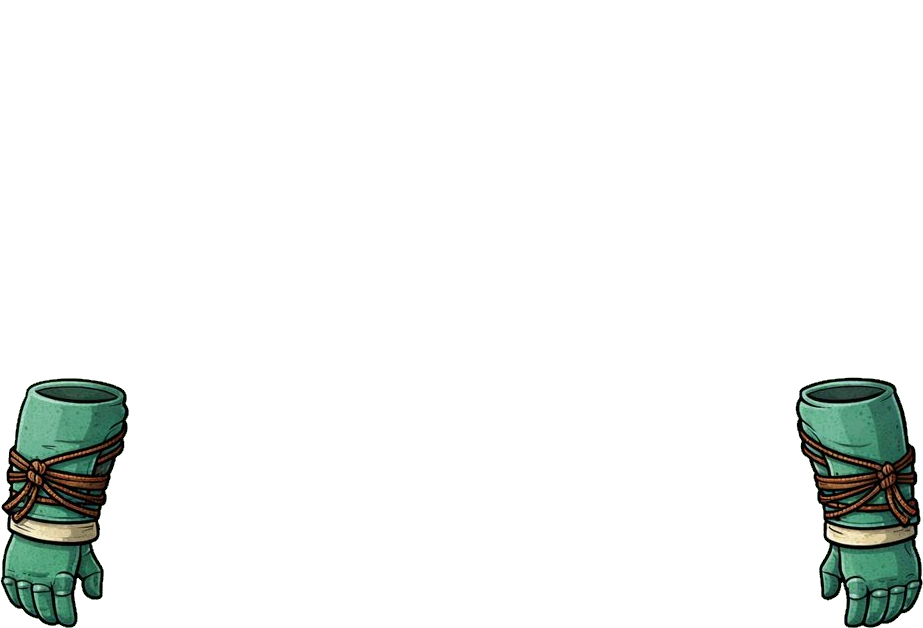
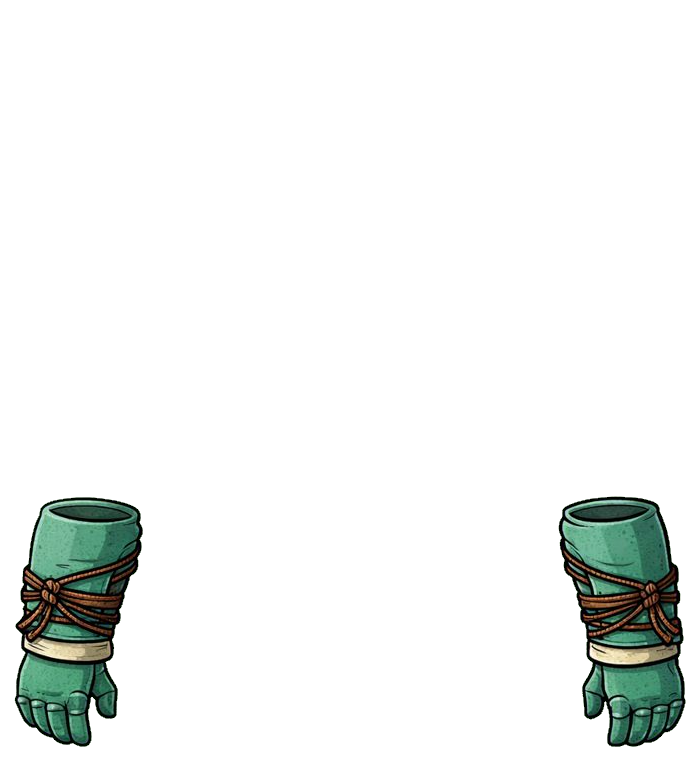
added final item pictures, fitted position and scale for pictures

Changed region(s): [[0.78, 0.5748, 1.0, 1.0], [0.0, 0.6051, 0.21, 1.0]]

diff --git a/src/main/resources/de/hsmittweida/pawnstopower/style_inspector.css b/src/main/resources/de/hsmittweida/pawnstopower/style_inspector.css
@@ -56,18 +56,22 @@
 
 }
 
+#slot-button:hover {
+    -fx-opacity: 0.2;
+    -fx-background-color: rgba(255, 0, 0, 0.0);
+    -fx-border-style: solid;
+    -fx-border-color: red;
+    -fx-border-width: 2;
+    -fx-text-fill: black;
+}
+
 /*#torso-pane {
     -fx-border-style: solid;
     -fx-border-color: red;
     -fx-border-width: 2;
 }*/
 
-/* #slot-button:hover {
-    -fx-opacity: 0.2;
-    -fx-background-color: rgba(255, 0, 0, 0.0);
-    -fx-border-style: none;
-    -fx-text-fill: black;
-} */
+
 
 #stats-box {
     -fx-background-color: rgba(26,26,26,0.7);

diff --git a/src/main/java/de/hsmittweida/pawnstopower/Inspector.java b/src/main/java/de/hsmittweida/pawnstopower/Inspector.java
@@ -97,17 +97,17 @@ public class Inspector {
         AnchorPane.setLeftAnchor(btnHead, 710.0);
         AnchorPane.setRightAnchor(btnHead, 710.0);
         AnchorPane.setTopAnchor(btnHead, 190.0);
-        headPane.setPrefWidth(70);
+        headPane.setPrefWidth(90);
         headPane.setPrefHeight(90);
-        headPane.setMaxWidth(70);
+        headPane.setMaxWidth(90);
         headPane.setMaxHeight(90);
-        headPane.setMinWidth(70);
+        headPane.setMinWidth(90);
         headPane.setMinHeight(90);
-        btnHead.setPrefWidth(70);
+        btnHead.setPrefWidth(90);
         btnHead.setPrefHeight(90);
-        btnHead.setMaxWidth(70);
+        btnHead.setMaxWidth(90);
         btnHead.setMaxHeight(90);
-        btnHead.setMinWidth(70);
+        btnHead.setMinWidth(90);
         btnHead.setMinHeight(90);
         btnHead.setOnAction(e -> new Slot(headPane, p, "clothing", 0, "Kopfschutz"));
 
@@ -140,10 +140,10 @@ public class Inspector {
         armPane = new StackPane();
         AnchorPane.setLeftAnchor(armPane, 655.0);
         AnchorPane.setRightAnchor(armPane, 655.0);
-        AnchorPane.setTopAnchor(armPane, 300.0);
+        AnchorPane.setTopAnchor(armPane, 310.0);
         AnchorPane.setLeftAnchor(btnArms, 655.0);
         AnchorPane.setRightAnchor(btnArms, 655.0);
-        AnchorPane.setTopAnchor(btnArms, 300.0);
+        AnchorPane.setTopAnchor(btnArms, 310.0);
         armPane.setPrefHeight(250);
         armPane.setPrefWidth(150);
         armPane.setMaxHeight(250);
@@ -184,34 +184,42 @@ public class Inspector {
 
         /* Slot 0 - siehe Pawn.weaponSlotUsed */
         paneRight = new StackPane();
-        AnchorPane.setRightAnchor(paneRight, 415.0);
-        AnchorPane.setTopAnchor(paneRight, 375.0);
-        paneRight.setPrefWidth(200);
-        paneRight.setPrefHeight(200);
+        AnchorPane.setRightAnchor(paneRight, 456.0);
+        AnchorPane.setTopAnchor(paneRight, 370.0);
+        paneRight.setPrefWidth(175);
+        paneRight.setPrefHeight(175);
+        paneRight.setMaxWidth(175);
+        paneRight.setMaxHeight(175);
+        paneRight.setMinWidth(175);
+        paneRight.setMinHeight(175);
         if(p.getWeapon((byte)0) != null) {
             System.out.println("weapon in rigght hand");
             setImage(paneRight, p.getWeapon((byte)0).getWeaponClass());
         }
-        AnchorPane.setRightAnchor(btnRight, 415.0);
-        AnchorPane.setTopAnchor(btnRight, 375.0);
-        btnRight.setPrefWidth(200);
-        btnRight.setPrefHeight(200);
+        AnchorPane.setRightAnchor(btnRight, 456.0);
+        AnchorPane.setTopAnchor(btnRight, 370.0);
+        btnRight.setPrefWidth(175);
+        btnRight.setPrefHeight(175);
         btnRight.setOnAction(e -> new Slot(paneRight, p, "weapon", 0, "Rechte Handwaffe"));
 
         /* Slot 1 */
         paneLeft = new StackPane();
-        AnchorPane.setLeftAnchor(paneLeft, 415.0);
-        AnchorPane.setTopAnchor(paneLeft, 375.0);
-        paneLeft.setPrefWidth(200);
-        paneLeft.setPrefHeight(200);
+        AnchorPane.setLeftAnchor(paneLeft, 456.0);
+        AnchorPane.setTopAnchor(paneLeft, 370.0);
+        paneLeft.setPrefWidth(175);
+        paneLeft.setPrefHeight(175);
+        paneLeft.setMaxWidth(175);
+        paneLeft.setMaxHeight(175);
+        paneLeft.setMinWidth(175);
+        paneLeft.setMinHeight(175);
         if(p.getWeapon((byte)1) != null) {
             System.out.println("weapon in left thand");
             setImage(paneLeft, p.getWeapon((byte)1).getWeaponClass());
         }
-        AnchorPane.setLeftAnchor(btnLeft, 415.0);
-        AnchorPane.setTopAnchor(btnLeft, 375.0);
-        btnLeft.setPrefWidth(200);
-        btnLeft.setPrefHeight(200);
+        AnchorPane.setLeftAnchor(btnLeft, 456.0);
+        AnchorPane.setTopAnchor(btnLeft, 370.0);
+        btnLeft.setPrefWidth(175);
+        btnLeft.setPrefHeight(175);
         btnLeft.setOnAction(e -> new Slot(paneLeft, p, "weapon", 1, "Linke Handwaffe"));
 
         Button debug = new Button("Fix img");
@@ -243,11 +251,12 @@ public class Inspector {
             case SWT -> "SWT.png";
         };
         String location = Inspector.class.getResource("image/weapons/"+picName).toExternalForm();
-//        ref.setStyle("-fx-background-image: url('" + location + "'); -fx-background-position: center; -fx-background-size: cover;");
         Image img = new Image(location);
         ImageView iv = new ImageView(img);
-        iv.setFitWidth(ref.getWidth());
-        iv.setFitHeight(ref.getHeight());
+
+        iv.fitWidthProperty().bind(ref.widthProperty());
+        iv.fitHeightProperty().bind(ref.heightProperty());
+
         ref.getChildren().add(iv);
     }
 
@@ -281,31 +290,21 @@ public class Inspector {
         iv.fitWidthProperty().bind(ref.widthProperty());
         iv.fitHeightProperty().bind(ref.heightProperty());
 
-        /* Je nach Rüstungsslot müssen die Bilder entsprechend gehandelt werden: */
+        /* Je nach Rüstungsslot müssen die Bilder entsprechend skaliert werden: */
         if (path.equals("helm.png")) {
-//            ref.setStyle("-fx-background-image: url('" + location + "'); -fx-background-position: bottom; -fx-background-repeat:no-repeat; -fx-background-size: contain;");
             iv.setScaleY(1.125);
         } else if (path.equals("beinschutz.png")) {
-//            ref.setStyle("-fx-background-image: url('" + location + "'); -fx-background-position: bottom; -fx-background-repeat:no-repeat; -fx-background-size: contain;");
-            iv.setScaleX(1.2);
-            iv.setScaleY(1.05);
+            iv.setScaleX(1.3);
+            iv.setScaleY(1.166);
         } else if (path.equals("armschutz.png")) {
-//            ref.setStyle("-fx-background-image: url('" + location + "'); -fx-background-position: bottom; -fx-background-repeat:no-repeat; -fx-background-size: contain;");
             iv.setScaleX(1.15);
-            iv.setScaleY(1.05);
+            iv.setScaleY(1.15);
         } else if (path.equals("brustplatte.png")) {
-//            ref.setStyle("-fx-background-image: url('" + location + "'); -fx-background-position: bottom; -fx-background-repeat:no-repeat; -fx-background-size: contain;");
             iv.setScaleX(1.325);
             iv.setScaleY(1.05);
-
         }
 
-
-//        ref.setGraphic(iv);
         ref.getChildren().add(iv);
-
-//        ref.setStyle("-fx-border-color: red; -fx-border-style: solid; -fx-border-width: 2px;");
-
     }
 
     /**
